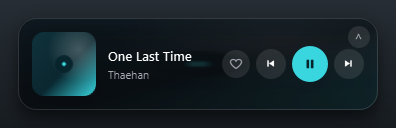
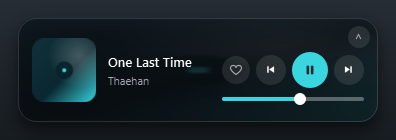
README: document the volume slider + refresh screenshots; spec-based build cmd

diff --git a/README.md b/README.md
@@ -30,6 +30,7 @@ no API keys and no setup. Signing in is only needed for the optional extras
 - Seekable progress bar (drag to scrub) in the expanded view
 - Shuffle and repeat toggles, shown when the current source supports them
 - System-tray icon with full controls and quit
+- Volume slider (in both the compact bar and the expanded card) for the playing app, via Windows Core Audio, with a mute toggle and a system-volume fallback
 - Heart button to favorite the playing track to your TIDAL collection (optional, one-time sign-in)
 - Quality badge showing what the track is available in on TIDAL (MAX / Hi-Res / Lossless / High, plus Atmos)
 - Adaptive controls: actions the current source doesn't support are greyed out or hidden
@@ -83,7 +84,7 @@ Double-click **`build.bat`**, or run:
 ```bat
 pip install -r requirements.txt pyinstaller
 python make_icon.py
-pyinstaller --noconfirm --onefile --windowed --name TidalNowPlaying --icon icon.ico --collect-all winsdk --collect-all tidalapi --collect-all pynput main.py
+pyinstaller --noconfirm --clean TidalNowPlaying.spec
 ```
 
 The result is `dist\TidalNowPlaying.exe`.
@@ -96,6 +97,7 @@ The result is `dist\TidalNowPlaying.exe`.
 - **Right-click the widget:** the same management actions (Settings, Open TIDAL, check for updates, sign in, hide, expand/compact, quit), without the transport controls, since those are already buttons on the widget.
 - **TIDAL web player:** the tray/right-click menu's **TIDAL web player** item opens listen.tidal.com as a standalone window (via Edge/Chrome). Handy if you don't have the desktop app, the widget reads it through Windows media controls, so keep **Follow other apps** on.
 - **Seek:** in expanded mode, drag the progress bar to jump to any point in the track.
+- **Volume:** a slider under the compact controls (and in the expanded card, with a mute button) sets the playing app's volume (TIDAL, or your browser for the web player), falling back to the system volume. It appears only when a controllable audio session is found.
 - **Shuffle / repeat:** toggle buttons appear in expanded mode when the player supports them. (TIDAL does not expose shuffle/repeat to Windows, so they stay hidden for TIDAL.)
 - **Settings:** right-click the tray icon (or the widget) and choose **Settings...** for accent, opacity, refresh interval, run-at-startup, hotkeys, and update checks. An **About** tab shows the version, links, and licenses.
 - **Global hotkeys** (when enabled): Ctrl+Alt+Space play/pause, Ctrl+Alt+Left/Right prev/next, Ctrl+Alt+L like, Ctrl+Alt+H show/hide.
@@ -161,10 +163,11 @@ if you prefer.
 | `settings_dialog.py` | The preferences dialog. |
 | `hotkeys.py` | Optional global hotkeys (pynput). |
 | `updater.py` | Optional in-app update check + self-replace install (GitHub releases). |
+| `volume_backend.py` | Optional per-app volume control via Windows Core Audio (pycaw), on its own COM thread. |
 | `make_icon.py` | Generates `icon.ico` for the packaged app. |
 | `build.bat` | One-click build of the standalone `.exe`. |
 | `run.bat` / `run-debug.bat` | Run from source (with or without a console). |
-| `requirements.txt` | Python dependencies (PySide6, winsdk, tidalapi, pynput). |
+| `requirements.txt` | Python dependencies (PySide6, winsdk, tidalapi, pynput, pycaw). |
 
 ## Troubleshooting
 
@@ -199,6 +202,7 @@ Note: current builds are not code-signed, so Windows SmartScreen may show an
 - [winsdk](https://github.com/pywinrt/python-winsdk) (Python WinRT projection), licensed under MIT
 - [tidalapi](https://github.com/tamland/python-tidal) (unofficial TIDAL API client) for the optional favorite feature, licensed under LGPLv3
 - [pynput](https://github.com/moses-palmer/pynput) for optional global hotkeys, licensed under LGPLv3
+- [pycaw](https://github.com/AndreMiras/pycaw) for the optional per-app volume control (Windows Core Audio), licensed under MIT
 - Icons are drawn at runtime with QPainter, so there are no image assets to ship
 
 Because the packaged `.exe` bundles PySide6 (LGPLv3), the full source for this